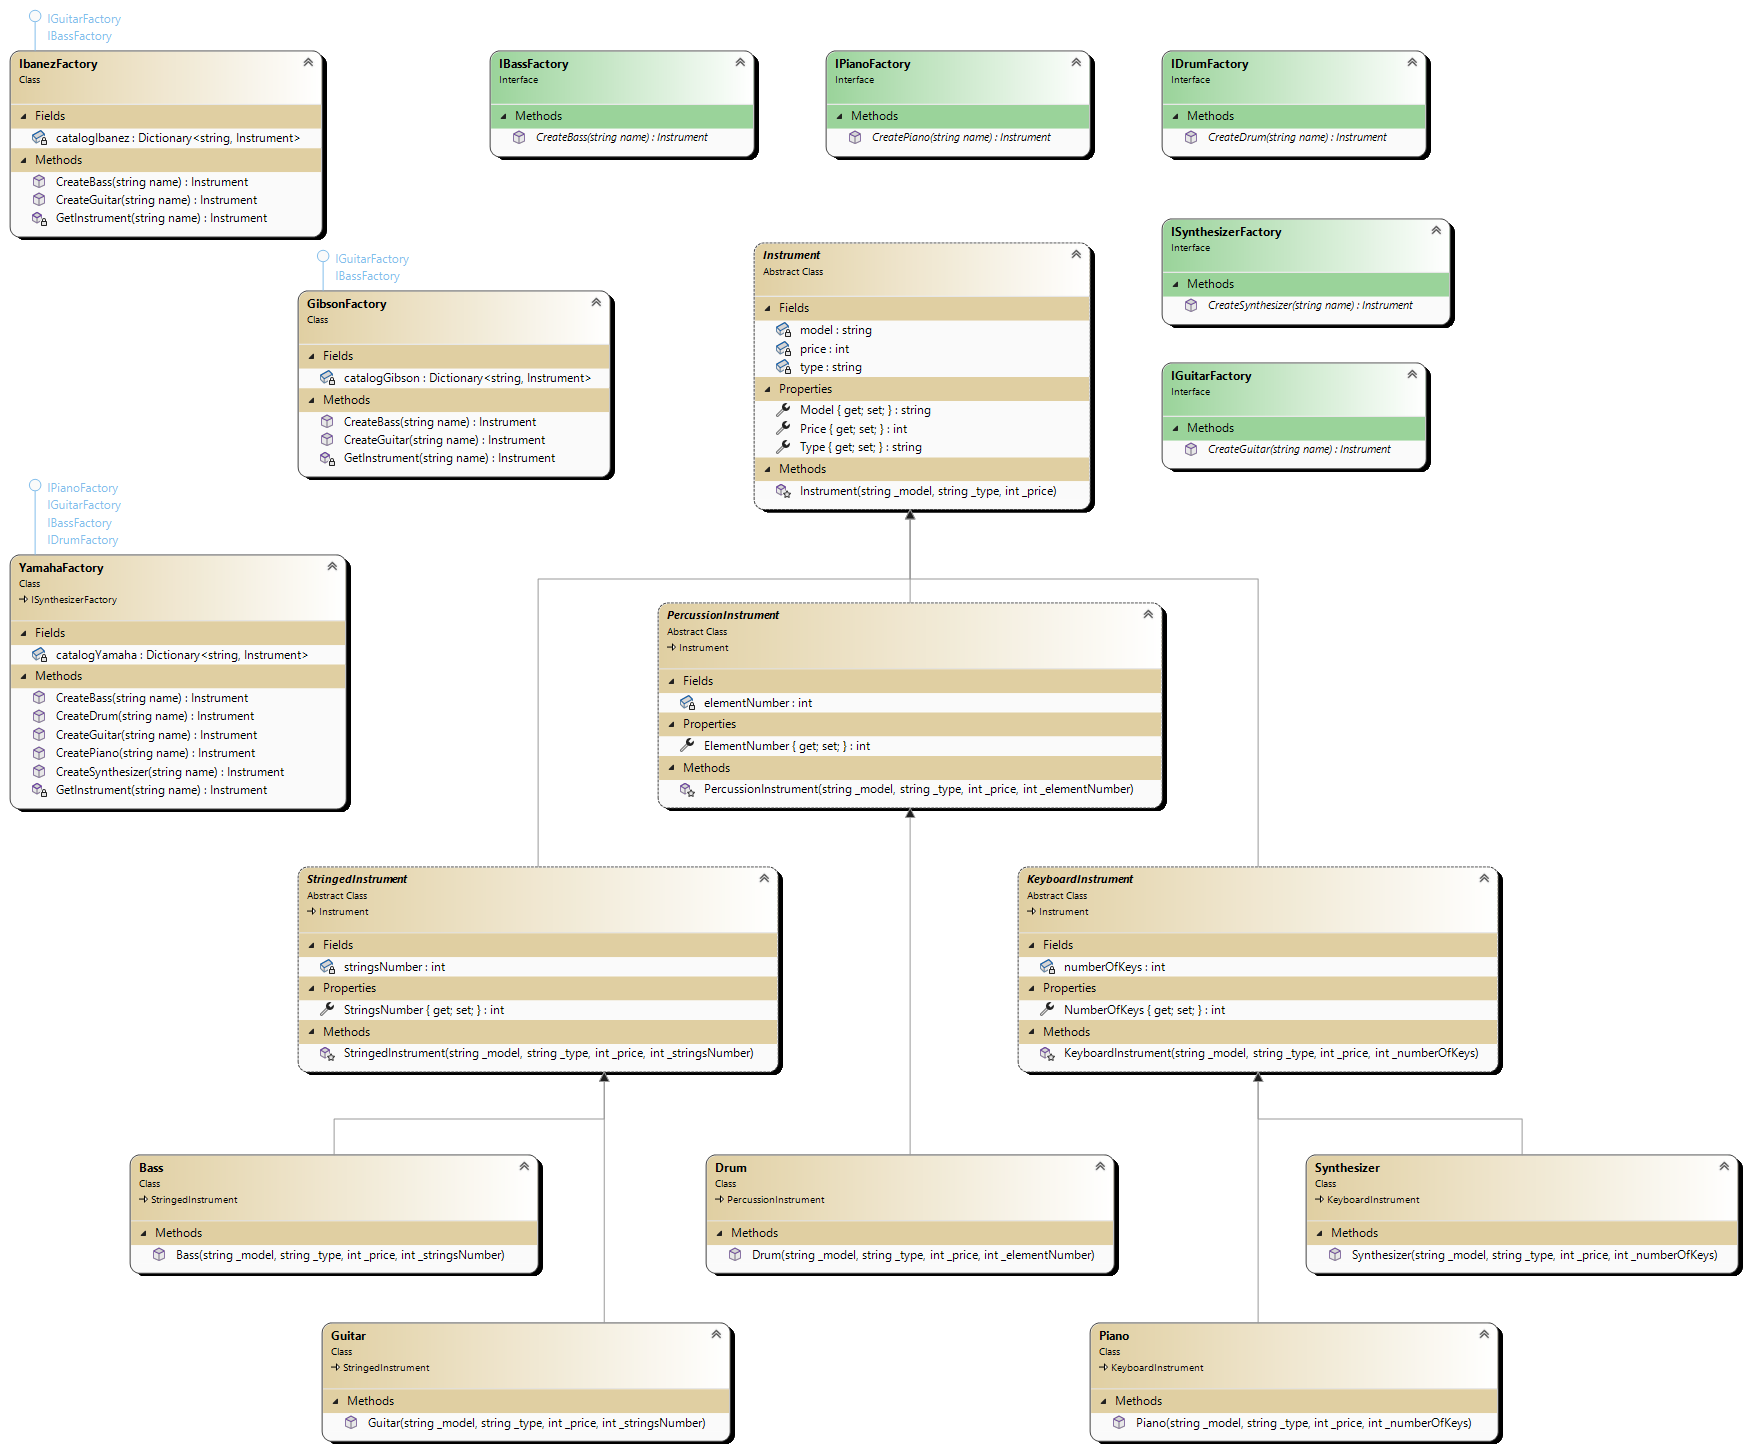
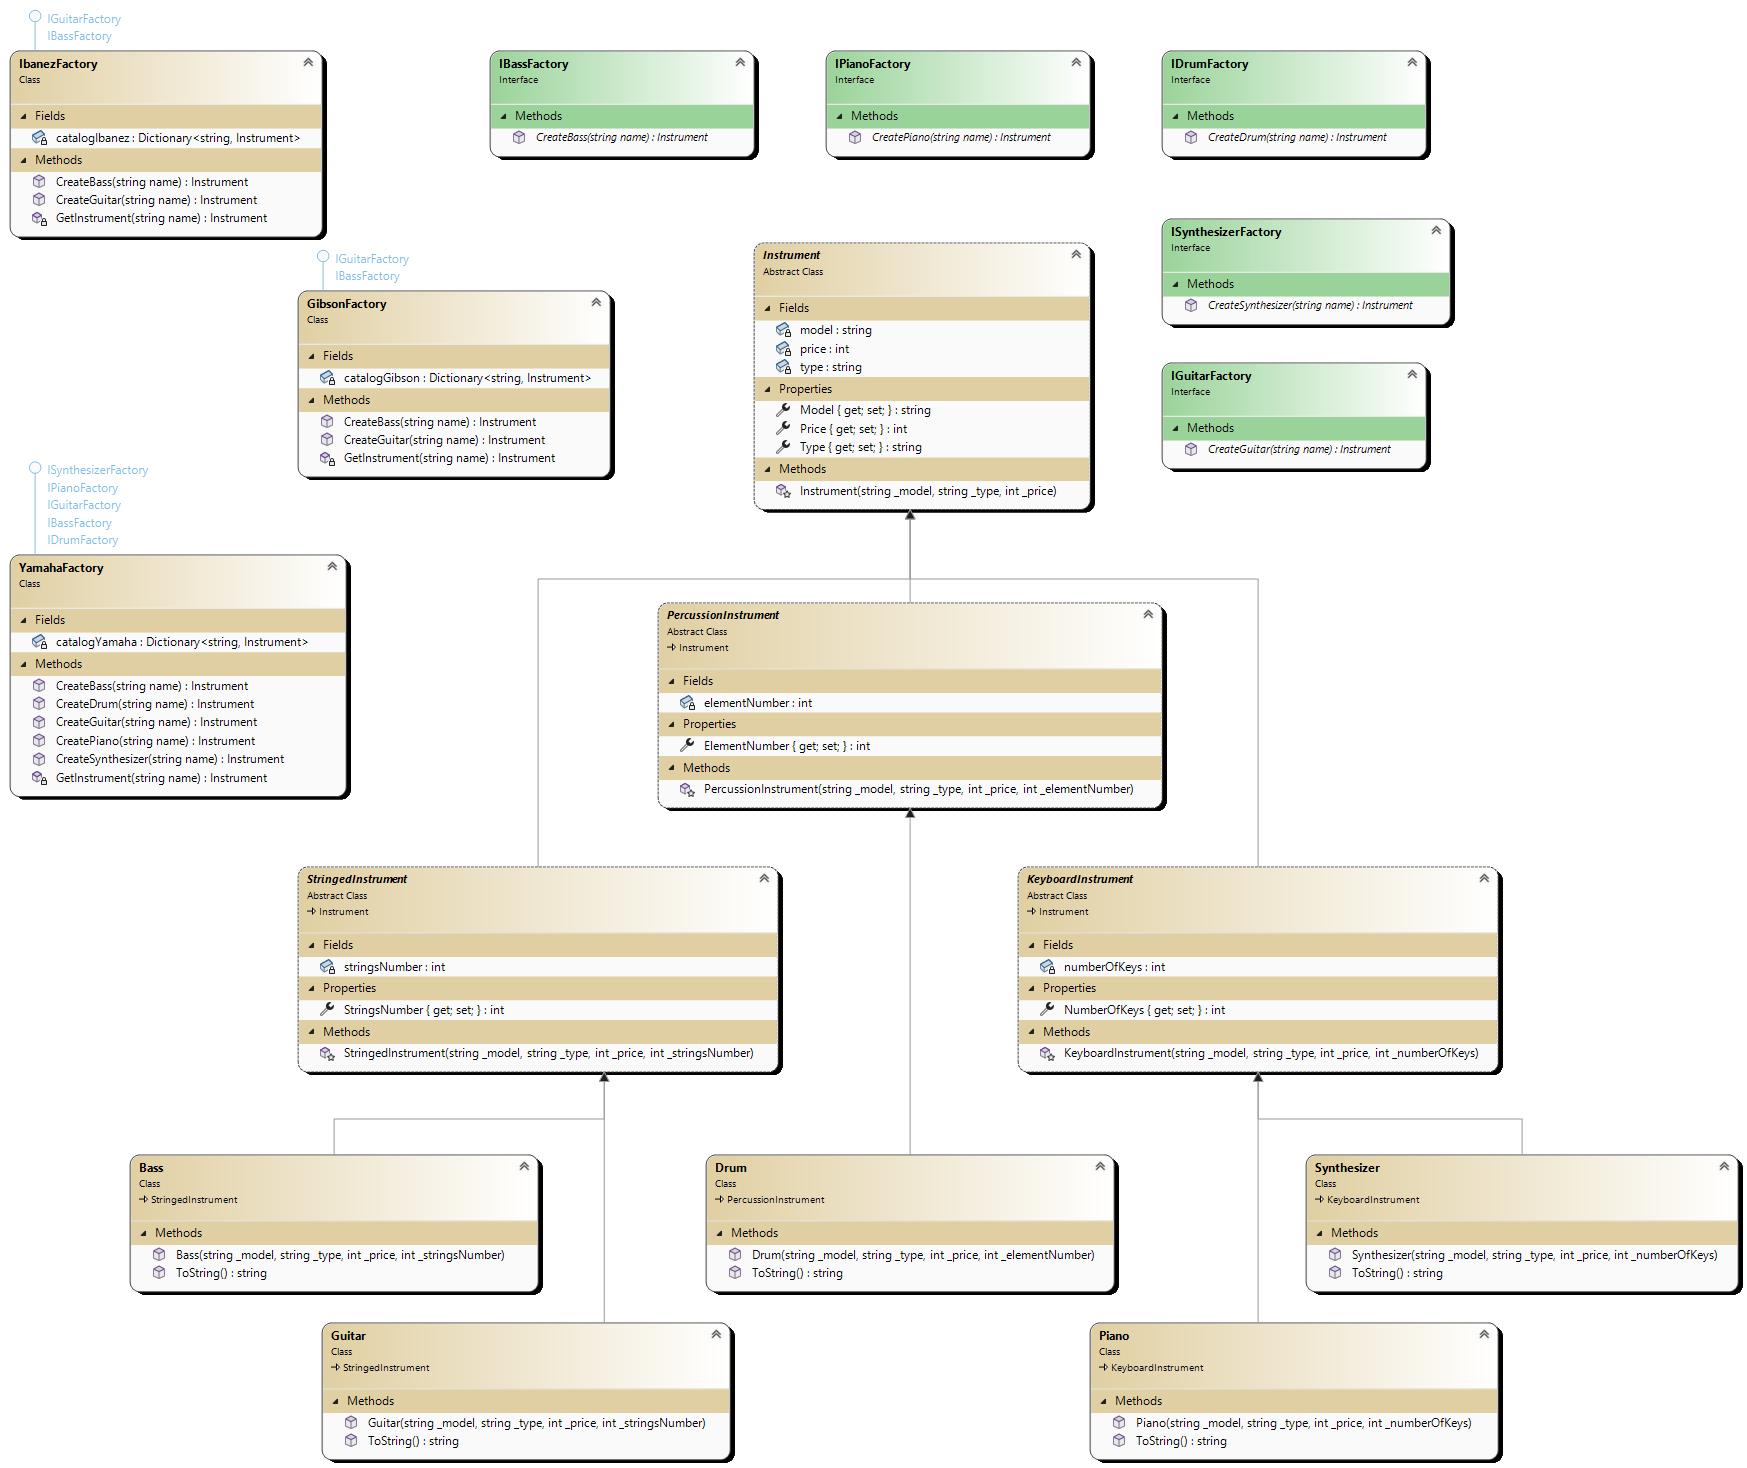
Abstract factory end

diff --git a/DesignPatterns/DesignPatterns.Class/AbstractFactory/InstrumentFactory/Instruments/Synthesizer.cs b/DesignPatterns/DesignPatterns.Class/AbstractFactory/InstrumentFactory/Instruments/Synthesizer.cs
@@ -11,5 +11,10 @@ namespace DesignPatterns.Class.AbstractFactory.InstrumentFactory.Instruments
         public Synthesizer(string _model, string _type, int _price, int _numberOfKeys) : base(_model, _type, _price, _numberOfKeys)
         {
         }
+
+        public override string ToString()
+        {
+            return "Synthesizer";
+        }
     }
 }

diff --git a/DesignPatterns/DesignPatterns.Class/AbstractFactory/InstrumentFactory/Instruments/Guitar.cs b/DesignPatterns/DesignPatterns.Class/AbstractFactory/InstrumentFactory/Instruments/Guitar.cs
@@ -11,5 +11,10 @@ namespace DesignPatterns.Class.AbstractFactory.InstrumentFactory.Instruments
         public Guitar(string _model, string _type, int _price, int _stringsNumber) : base(_model, _type, _price, _stringsNumber)
         {
         }
+
+        public override string ToString()
+        {
+            return "Guitar";
+        }
     }
 }

diff --git a/DesignPatterns/DesignPatterns.Class/AbstractFactory/InstrumentFactory/Instruments/Bass.cs b/DesignPatterns/DesignPatterns.Class/AbstractFactory/InstrumentFactory/Instruments/Bass.cs
@@ -11,5 +11,10 @@ namespace DesignPatterns.Class.AbstractFactory.InstrumentFactory.Instruments
         public Bass(string _model, string _type, int _price, int _stringsNumber) : base(_model, _type, _price, _stringsNumber)
         {
         }
+
+        public override string ToString()
+        {
+            return "Bass";
+        }
     }
 }

diff --git a/DesignPatterns/DesignPatterns.Class/AbstractFactory/InstrumentFactory/Instruments/Drum.cs b/DesignPatterns/DesignPatterns.Class/AbstractFactory/InstrumentFactory/Instruments/Drum.cs
@@ -11,5 +11,10 @@ namespace DesignPatterns.Class.AbstractFactory.InstrumentFactory.Instruments
         public Drum(string _model, string _type, int _price, int _elementNumber) : base(_model, _type, _price, _elementNumber)
         {
         }
+
+        public override string ToString()
+        {
+            return "Drum";
+        }
     }
 }

diff --git a/DesignPatterns/DesignPatterns.Class/AbstractFactory/InstrumentFactory/Instruments/Piano.cs b/DesignPatterns/DesignPatterns.Class/AbstractFactory/InstrumentFactory/Instruments/Piano.cs
@@ -11,5 +11,10 @@ namespace DesignPatterns.Class.AbstractFactory.InstrumentFactory.Instruments
         public Piano(string _model, string _type, int _price, int _numberOfKeys) : base(_model, _type, _price, _numberOfKeys)
         {
         }
+
+        public override string ToString()
+        {
+            return "Piano";
+        }
     }
 }
